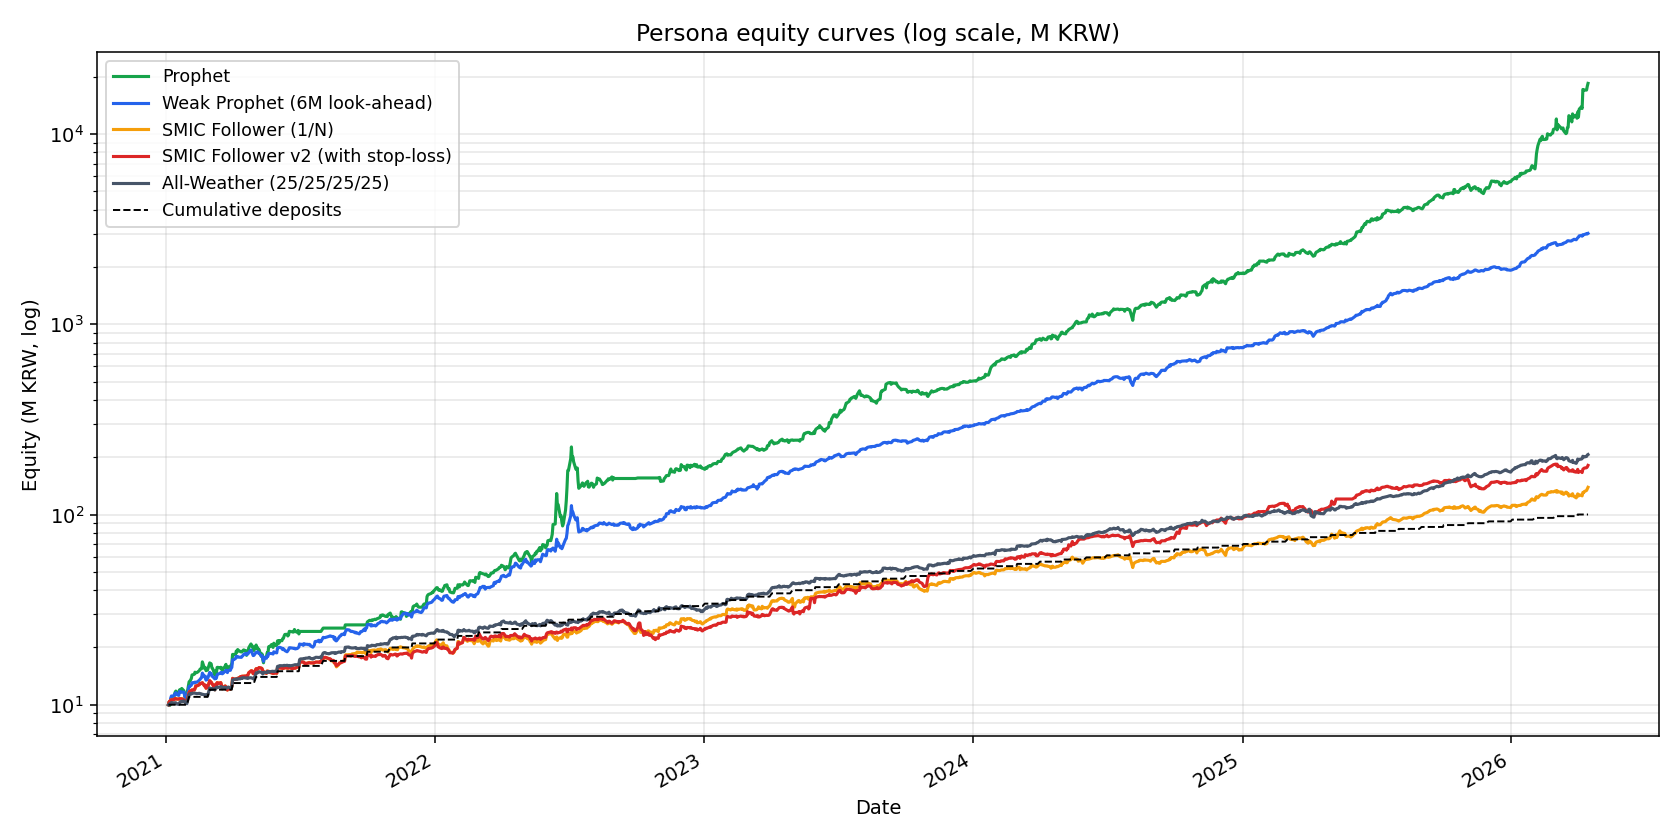
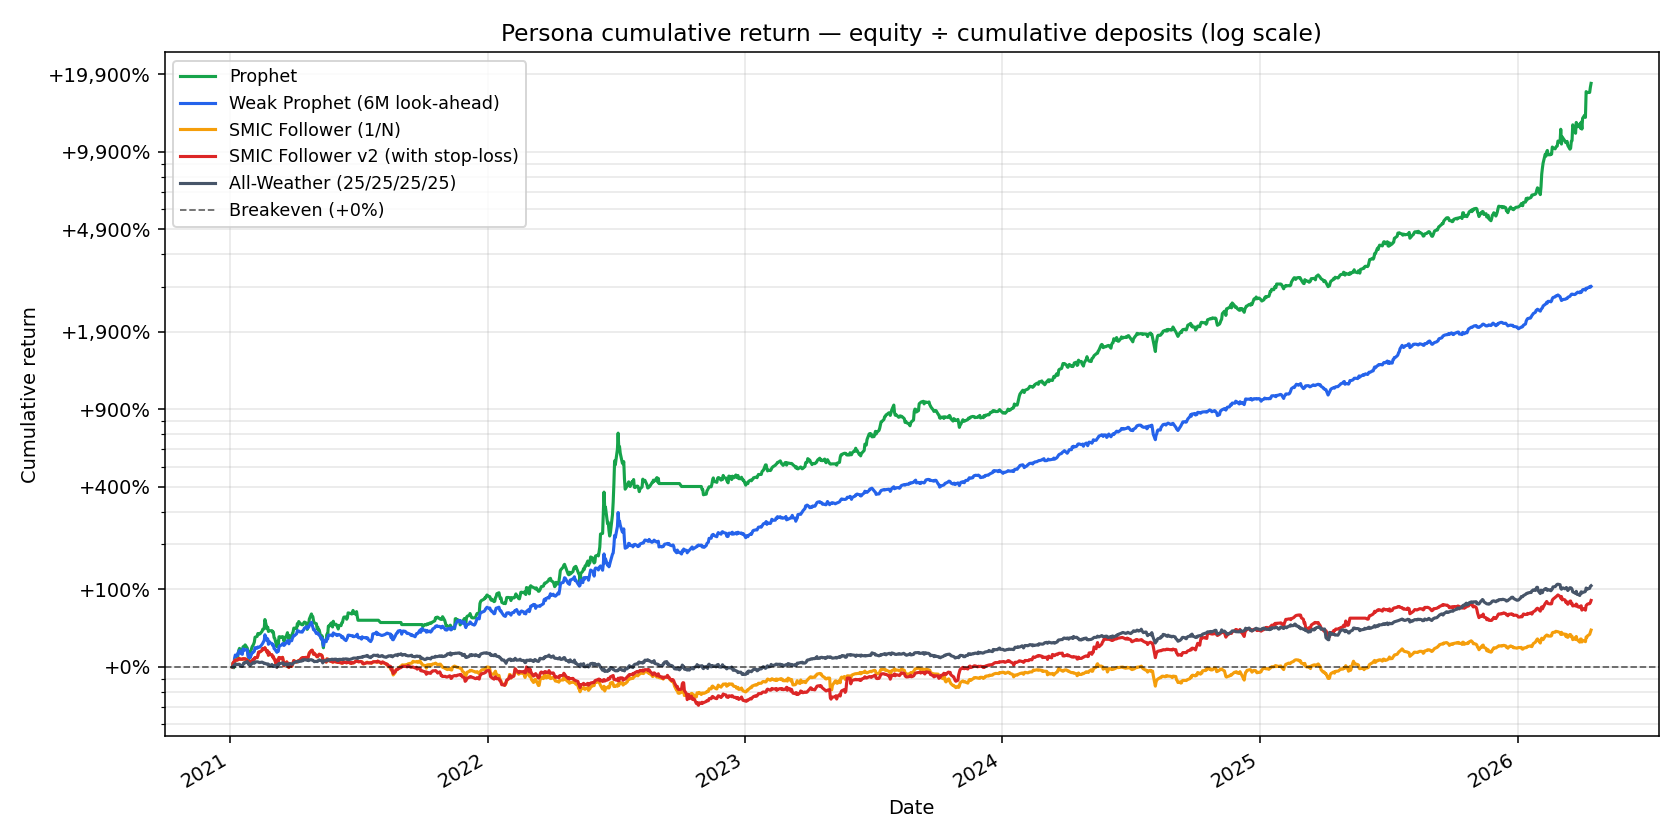
chore(viz): switch equity / net-profit charts to % return
equity_curves.png and net_profit_bar.png used to plot M KRW on the Y
axis, which mixed two stories — "how big is the absolute number" and
"how well did the strategy convert deposits into return". For a
DCA-with-escalation savings plan that runs to ~100M KRW total
contributed across all personas, the second story is the comparable
one. Switch the Y/X axes to:

- equity_curves: equity ÷ cumulative deposits − 1, log Y, decade +
  2×/5× intermediate ticks formatted as "+X%". Breakeven (+0%) shown
  as a dashed line. Drops the now-redundant cumulative-deposits dashed
  overlay (it was just a flat 0% line in the new view).
- net_profit_bar: net_profit ÷ total contributed × 100, sorted, with
  signed "+X.X%" annotations and "X%" X-axis tick formatter.

Drawdowns chart was already in %, no change. README narrative + chart
captions updated to match.

diff --git a/src/snusmic_pipeline/sim/visualize.py b/src/snusmic_pipeline/sim/visualize.py
@@ -22,6 +22,7 @@ import matplotlib
 matplotlib.use("Agg")  # always headless; CI and CLI use the same backend.
 
 import matplotlib.pyplot as plt  # noqa: E402
+import matplotlib.ticker as mticker  # noqa: E402
 import pandas as pd  # noqa: E402
 
 from .contracts import SimulationResult  # noqa: E402
@@ -35,26 +36,43 @@ PERSONA_COLORS = {
 }
 
 
+def _multiplier_to_pct_label(value: float, _pos: int) -> str:
+    """Format a wealth multiplier (1.0 = breakeven) as a signed percent return."""
+    if value <= 0:
+        return ""
+    pct = (value - 1.0) * 100.0
+    if pct == 0:
+        return "+0%"
+    if abs(pct) >= 1000:
+        return f"+{pct:,.0f}%" if pct > 0 else f"{pct:,.0f}%"
+    return f"+{pct:.0f}%" if pct > 0 else f"{pct:.0f}%"
+
+
 def plot_equity_curves(result: SimulationResult, out_path: Path) -> Path:
-    """Equity-curve overlay; one subplot, one line per persona."""
+    """Cumulative return (% vs cumulative deposits) over time, log Y.
+
+    The plotted quantity is ``equity / cumulative_contributions`` — i.e. the
+    wealth multiplier on every won the user has deposited up to that date,
+    which is what a brokerage app shows as "your account is up X%". Log Y
+    so a constant compound growth rate reads as a straight line and
+    Prophet's 184× outcome doesn't crush mid-tier personas visually.
+    """
     if not result.equity_points:
         raise ValueError("SimulationResult has no equity points to plot.")
     by_persona: dict[str, list[tuple[date, float]]] = defaultdict(list)
-    contributions: list[tuple[date, float]] = []
-    contribution_seen: set[date] = set()
     for ep in result.equity_points:
-        by_persona[ep.persona].append((ep.date, ep.equity_krw))
-        if ep.date not in contribution_seen:
-            contributions.append((ep.date, ep.contributed_capital_krw))
-            contribution_seen.add(ep.date)
-    contributions.sort(key=lambda x: x[0])
+        if ep.contributed_capital_krw > 0:
+            mult = ep.equity_krw / ep.contributed_capital_krw
+        else:
+            mult = 1.0
+        by_persona[ep.persona].append((ep.date, mult))
 
     fig, ax = plt.subplots(figsize=(12, 6))
     persona_labels = {s.persona: s.label for s in result.summaries}
     for persona, points in by_persona.items():
         points.sort(key=lambda x: x[0])
         xs = [p[0] for p in points]
-        ys = [p[1] / 1e6 for p in points]  # KRW → M KRW
+        ys = [p[1] for p in points]
         ax.plot(
             xs,
             ys,
@@ -62,15 +80,19 @@ def plot_equity_curves(result: SimulationResult, out_path: Path) -> Path:
             color=PERSONA_COLORS.get(persona),
             linewidth=1.6,
         )
-    if contributions:
-        cx = [c[0] for c in contributions]
-        cy = [c[1] / 1e6 for c in contributions]
-        ax.plot(cx, cy, label="Cumulative deposits", color="black", linestyle="--", linewidth=1.0)
+    ax.axhline(1.0, color="black", linestyle="--", linewidth=0.9, alpha=0.6, label="Breakeven (+0%)")
 
     ax.set_yscale("log")
-    ax.set_title("Persona equity curves (log scale, M KRW)")
+    # Decades plus 2× and 5× intermediates so mid-tier personas (+30%, +100%,
+    # +400%) get readable tick labels instead of disappearing into the gap
+    # between +0% and +900%.
+    ax.yaxis.set_major_locator(mticker.LogLocator(base=10.0, subs=(1.0, 2.0, 5.0), numticks=12))
+    ax.yaxis.set_minor_locator(mticker.LogLocator(base=10.0, subs=(3.0, 4.0, 6.0, 7.0, 8.0, 9.0), numticks=12))
+    ax.yaxis.set_major_formatter(mticker.FuncFormatter(_multiplier_to_pct_label))
+    ax.yaxis.set_minor_formatter(mticker.NullFormatter())
+    ax.set_title("Persona cumulative return — equity ÷ cumulative deposits (log scale)")
     ax.set_xlabel("Date")
-    ax.set_ylabel("Equity (M KRW, log)")
+    ax.set_ylabel("Cumulative return")
     ax.grid(True, which="both", alpha=0.3)
     ax.legend(loc="upper left", fontsize=9)
     fig.autofmt_xdate()
@@ -82,28 +104,42 @@ def plot_equity_curves(result: SimulationResult, out_path: Path) -> Path:
 
 
 def plot_net_profit_bars(result: SimulationResult, out_path: Path) -> Path:
-    """Bar chart of final net profit per persona (sorted ascending)."""
+    """Bar chart of final total return (%) per persona (sorted ascending).
+
+    Total return is ``net_profit / total_contributed`` — i.e. "for every
+    won deposited, how many won did the persona end up with on top".
+    Comparable across personas and immune to the absolute scale of the
+    savings plan.
+    """
     if not result.summaries:
         raise ValueError("SimulationResult has no summaries to plot.")
-    summaries = sorted(result.summaries, key=lambda s: s.net_profit_krw)
+
+    def total_return_pct(s) -> float:
+        if s.total_contributed_krw <= 0:
+            return 0.0
+        return (s.net_profit_krw / s.total_contributed_krw) * 100.0
+
+    summaries = sorted(result.summaries, key=total_return_pct)
     labels = [s.label for s in summaries]
-    values = [s.net_profit_krw / 1e6 for s in summaries]
+    values = [total_return_pct(s) for s in summaries]
     colors = [PERSONA_COLORS.get(s.persona, "#6b7280") for s in summaries]
 
     fig, ax = plt.subplots(figsize=(10, 5.5))
     bars = ax.barh(labels, values, color=colors)
     for bar, value in zip(bars, values, strict=True):
+        sign = "+" if value >= 0 else ""
         ax.text(
             bar.get_width(),
             bar.get_y() + bar.get_height() / 2,
-            f" {value:,.1f}M",
+            f" {sign}{value:,.1f}%",
             va="center",
             ha="left" if value >= 0 else "right",
             fontsize=9,
         )
     ax.axvline(0, color="black", linewidth=0.6)
-    ax.set_title("Persona net profit (M KRW) — final equity − total contributed")
-    ax.set_xlabel("Net Profit (M KRW)")
+    ax.set_title("Persona total return (%) — net profit ÷ total contributed")
+    ax.set_xlabel("Total Return (%)")
+    ax.xaxis.set_major_formatter(mticker.FuncFormatter(lambda v, _p: f"{v:,.0f}%"))
     ax.grid(True, axis="x", alpha=0.3)
     fig.tight_layout()
     out_path.parent.mkdir(parents=True, exist_ok=True)

diff --git a/README.md b/README.md
@@ -126,7 +126,7 @@
 
 > 모든 평가금/순이익은 **share-based** 회계 — 정수 주식 + 가중평균원가 + 매수 0.015% 수수료 + 매도 0.18% 거래세 + 0.05% 슬리피지가 모든 체결에 적용된 결과입니다. 증권사 앱에서 보는 숫자와 같은 의미를 갖습니다.
 >
-> equity curve는 **로그 Y 축** — 직선의 기울기가 곧 CAGR이고, 5년 동안 100→1,000 (10x) 과 1,000→10,000 (10x)이 같은 시각적 거리로 보입니다. 마크-투-마켓은 종목 close가 결측되는 휴장/거래정지일에도 직전 close를 forward-fill (`board.asof`) 해서, 기존에 있던 가짜 −30% 스파이크를 제거했습니다.
+> equity curve / net profit 차트는 **% 수익률 기준** — 누적 적립금 대비 평가금 비율 (`equity / cumulative_deposits − 1`) 입니다. 같은 1억을 적립한 가상의 투자자 5명을 비교한다는 의미. equity curve의 Y축은 **로그 스케일** (눈금 라벨은 `+0% / +100% / +1,000% / +10,000%` 형태)이라 직선의 기울기가 곧 CAGR이고 Prophet의 184× outcome 이 mid-tier 페르소나의 +30~+150% 영역을 가리지 않습니다. 마크-투-마켓은 종목 close가 결측되는 휴장/거래정지일에도 직전 close를 forward-fill (`board.asof`) 해서, 기존에 있던 가짜 −30% 스파이크를 제거했습니다.
 
 핵심 관찰:
 
@@ -440,8 +440,8 @@ def test_prophet_concentrates_on_realised_winner(...):
 │       ├── summary.csv                    #     페르소나별 종합 통계
 │       ├── equity_daily.csv               #     일별 mark-to-market
 │       ├── trades.csv                     #     매수/매도 원장
-│       ├── equity_curves.png              #     5개 페르소나 equity overlay
-│       ├── net_profit_bar.png             #     순이익 막대 차트
+│       ├── equity_curves.png              #     5개 페르소나 % 수익률 overlay (log Y)
+│       ├── net_profit_bar.png             #     총 수익률 막대 차트 (%)
 │       └── drawdowns.png                  #     낙폭 곡선
 │
 ├── docs/
@@ -728,8 +728,8 @@ smic_follower_v2,2024-09-02,A.KS,sell,12,55310.0,663720.0,99.56,1194.70,...,stop
 
 ### 9-7. PNG 시각화
 
-- `equity_curves.png` (1680×840): 5개 페르소나 + 누적 적립금 점선 overlay (log Y)
-- `net_profit_bar.png` (1400×770): 순이익 막대
+- `equity_curves.png` (1680×840): 5개 페르소나 누적 수익률 (`equity / cumulative_deposits − 1`) overlay, log Y, breakeven(+0%) 점선 표시
+- `net_profit_bar.png` (1400×770): 총 수익률 (`net_profit / total_contributed`) 막대, 정렬됨
 - `drawdowns.png` (1680×700): 낙폭 곡선
 - `portfolio_composition.png` (≈1820×2100): 페르소나별 시점별 보유 비중 stacked area
 
